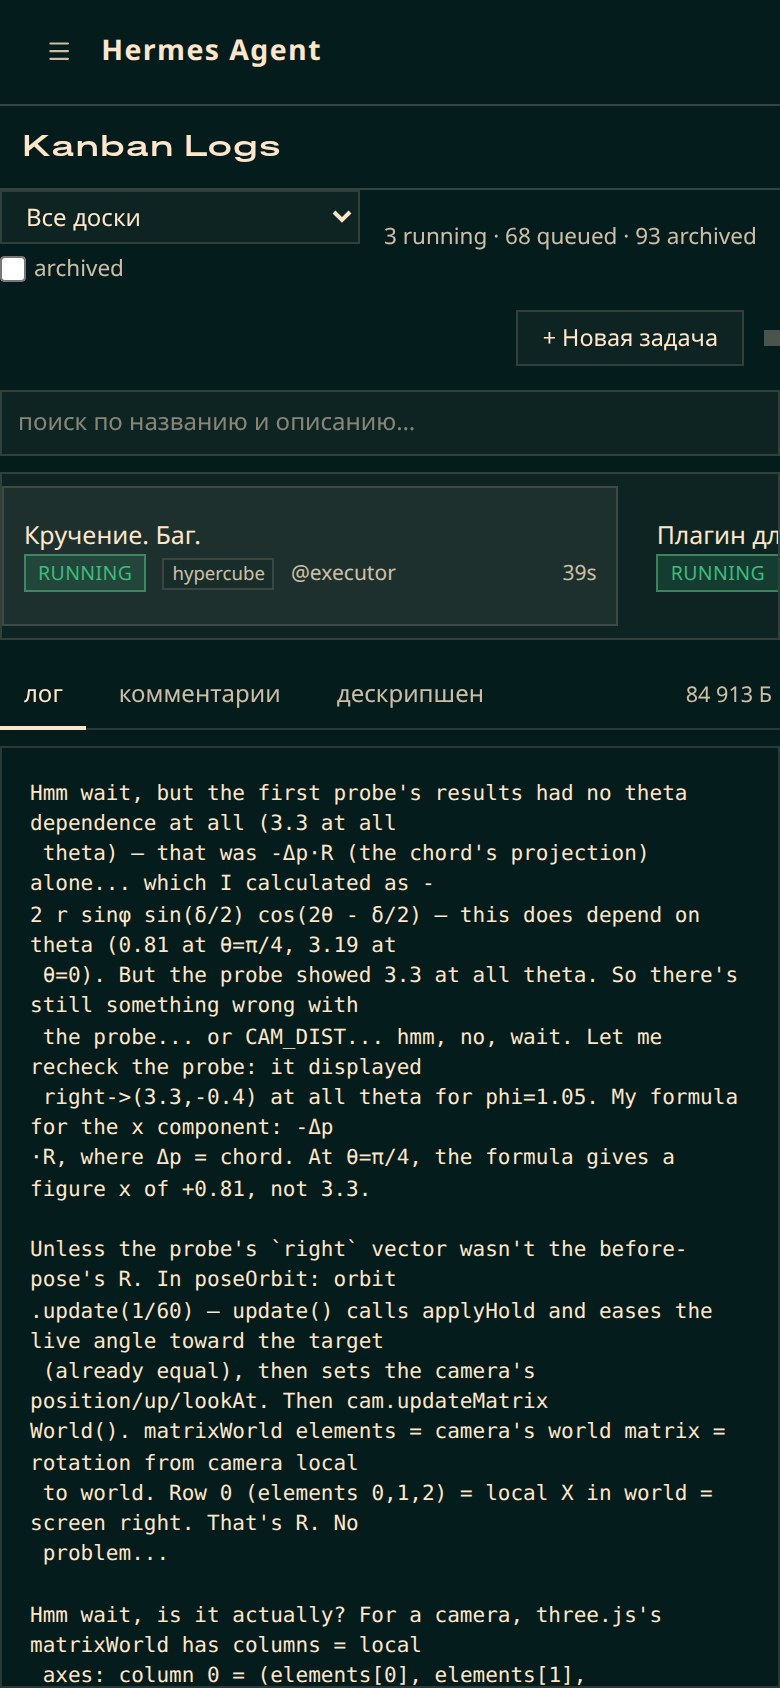
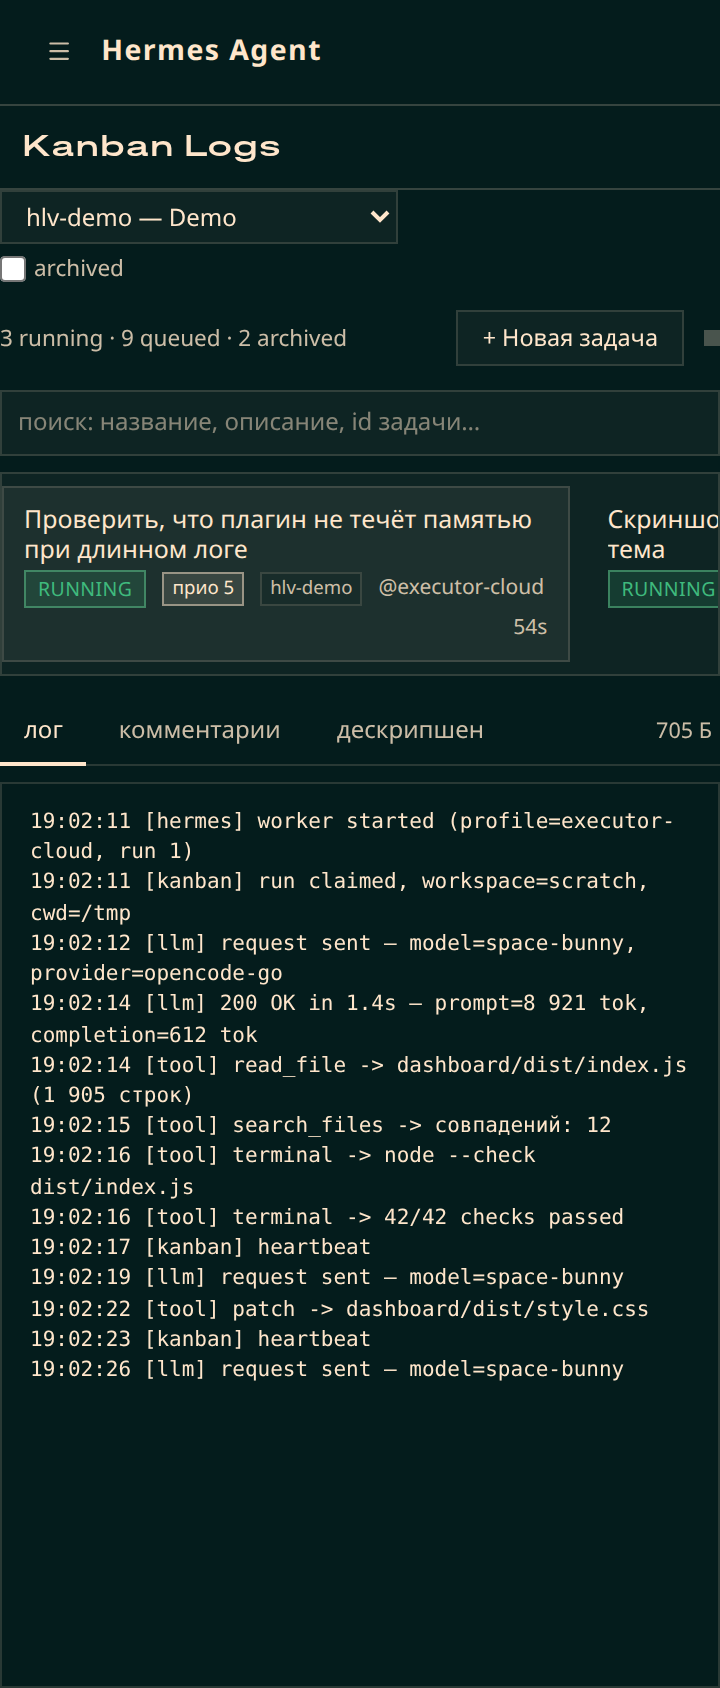
Снимки обоих вариантов узкой вёрстки вместо устаревшего
docs/mobile-carousel.png показывал карусель на 390px — ровно то, что после
прошлой правки работает только на 380px и уже. За картинкой не стояло
никакого инструмента, она была снята руками, и разъехаться с CSS могла
молча.

tools/narrow_shots.js снимает оба варианта с фиктивной доски hlv-demo и
проверяет себя перед снимком: на 390px в кадре должно быть больше одной
карточки при выключенном snap, на 360px — x mandatory. Если сценарий не
совпал, снимок не делается. Получились mobile-list.png и mobile-carousel.png,
обе переставлены в README.

diff --git a/tools/narrow_shots.js b/tools/narrow_shots.js
@@ -1,0 +1,98 @@
+#!/usr/bin/env node
+/**
+ * README shots for the narrow layout — both horizontal variants.
+ *
+ * There was no tool behind docs/mobile-carousel.png; it was shot by hand, and
+ * the layout it showed (one card per screen at 390px) is the variant that now
+ * only applies at 380px and below. This shoots BOTH cases from the same fake
+ * `hlv-demo` board so the README cannot drift from the CSS again:
+ *
+ *   docs/mobile-list.png      390px — horizontal list, several cards in frame
+ *   docs/mobile-carousel.png  360px — carousel, one card with the next peeking
+ *
+ * Requires the demo data (node tools/seed_demo.js) and a dashboard on
+ * 127.0.0.1:9119 with the cookie jar at /tmp/hlv.cookies.
+ */
+const fs = require("fs");
+const path = require("path");
+const { chromium } = require(process.env.PLAYWRIGHT_PATH ||
+  "/home/alexander/src/alex-dubatov/hypercube/node_modules/playwright");
+const CHROME = process.env.CHROME_PATH ||
+  "/home/alexander/.cache/ms-playwright/chromium-1247/chrome-linux64/chrome";
+const CREDS = "/tmp/hlv.cookies";
+const ORIGIN = "http://127.0.0.1:9119";
+const PAGE = ORIGIN + "/hermes-logs-viewer?profile=default";
+const BOARD = "hlv-demo";
+const OUT = path.join(__dirname, "..", "docs");
+
+function cookies() {
+  return fs.readFileSync(CREDS, "utf8")
+    .split("\n")
+    .filter((l) => l.split("\t").length === 7)
+    .map((l) => {
+      const p = l.split("\t");
+      return { name: p[5], value: p[6], domain: "127.0.0.1", path: "/", httpOnly: true };
+    });
+}
+const sleep = (ms) => new Promise((r) => setTimeout(r, ms));
+
+(async () => {
+  fs.mkdirSync(OUT, { recursive: true });
+  const browser = await chromium.launch({
+    executablePath: CHROME,
+    args: ["--no-sandbox", "--disable-dev-shm-usage", "--force-color-profile=srgb"],
+  });
+  const ctx = await browser.newContext({
+    viewport: { width: 390, height: 844 },
+    deviceScaleFactor: 2,
+    isMobile: true,
+    hasTouch: true,
+    colorScheme: "light",
+    locale: "ru-RU",
+  });
+  await ctx.addCookies(cookies());
+  const page = await ctx.newPage();
+  page.on("pageerror", (e) => console.log("  [page error]", e.message));
+
+  await page.goto(PAGE, { waitUntil: "domcontentloaded" });
+  await page.waitForSelector(".hlv-row", { timeout: 30000 });
+  await sleep(3500);
+  // Fake data only — no real task title ever reaches a README image.
+  await page.selectOption(".hlv-board-block select", BOARD);
+  await sleep(3500);
+
+  const shot = async (name) => {
+    const file = path.join(OUT, name + ".png");
+    await page.screenshot({ path: file });
+    console.log("  " + name + ".png  " + (fs.statSync(file).size / 1024).toFixed(0) + " KB");
+  };
+
+  const state = async (w) => {
+    await page.setViewportSize({ width: w, height: 844 });
+    await sleep(2000);
+    return page.evaluate(() => {
+      const list = document.querySelector(".hlv-list");
+      const lb = list.getBoundingClientRect();
+      const rows = Array.from(list.querySelectorAll(".hlv-row"));
+      return {
+        snap: getComputedStyle(list).scrollSnapType,
+        row: Math.round(rows[0].getBoundingClientRect().width),
+        list: Math.round(lb.width),
+        inFrame: rows.filter((r) => {
+          const rb = r.getBoundingClientRect();
+          return rb.right > lb.left + 1 && rb.left < lb.right - 1;
+        }).length,
+      };
+    });
+  };
+
+  const wide = await state(390);
+  console.log("390px:", JSON.stringify(wide));
+  if (!/x\s+mandatory/.test(wide.snap) && wide.inFrame >= 2) await shot("mobile-list");
+
+  const narrow = await state(360);
+  console.log("360px:", JSON.stringify(narrow));
+  if (/x\s+mandatory/.test(narrow.snap)) await shot("mobile-carousel");
+
+  await browser.close();
+})().catch((e) => { console.error("FAIL", e && e.stack ? e.stack : e); process.exit(1); });

diff --git a/README.md b/README.md
@@ -304,7 +304,9 @@
 На узком экране список задач становится **горизонтальным** — и вариант зависит
 от ширины: **выше 380px это список**, а **на 380px и уже — карусель**.
 
-![Мобильный вид: список задач горизонтально](docs/mobile-carousel.png)
+![390px: горизонтальный список, в кадре несколько карточек](docs/mobile-list.png)
+
+![360px: карусель, одна карточка, следующая выглядывает](docs/mobile-carousel.png)
 
 Общая часть (медиазапрос `max-width: 1023px`) у них одна:
 
@@ -419,6 +421,7 @@ node tools/seed_demo.js
 
 # 3. снимки в docs/
 node tools/screenshots.js
+node tools/narrow_shots.js        # оба варианта узкой вёрстки (список и карусель)
 
 # 4. убрать доску вместе с логами
 node tools/seed_demo.js --clean
@@ -431,6 +434,11 @@ node tools/seed_demo.js --clean
 ```bash
 node tools/check_screenshots.js     # 20/20 проверок кадра
 ```
+
+`tools/narrow_shots.js` снимает обе узкие вёрстки и **сам себя проверяет**: на
+390px он ждёт в кадре больше одной карточки при выключенном snap, на 360px —
+`x mandatory`, и снимок делается только если сценарий совпал. Иначе старая
+картинка в README расходилась бы с CSS молча.
 
 Путь до Playwright и Chromium переопределяется переменными `PLAYWRIGHT_PATH`
 и `CHROME_PATH`.
